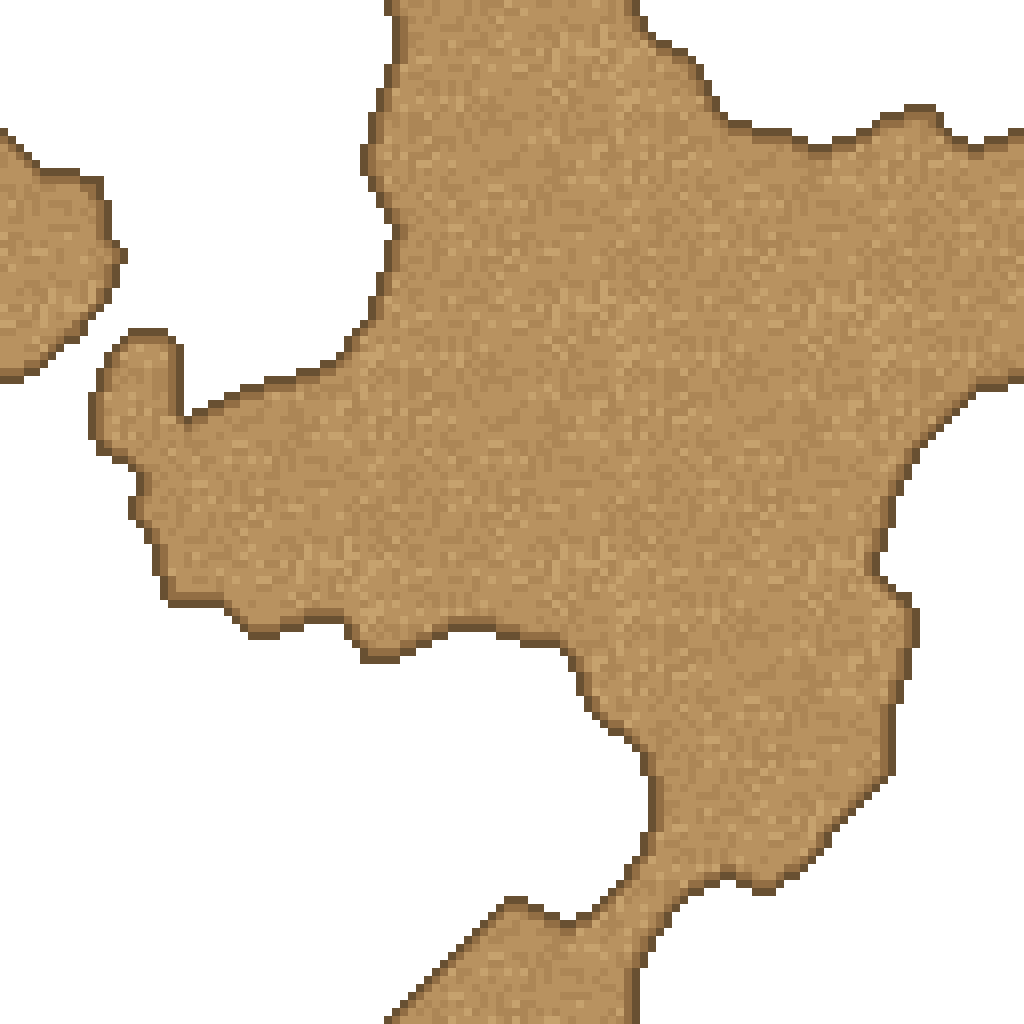
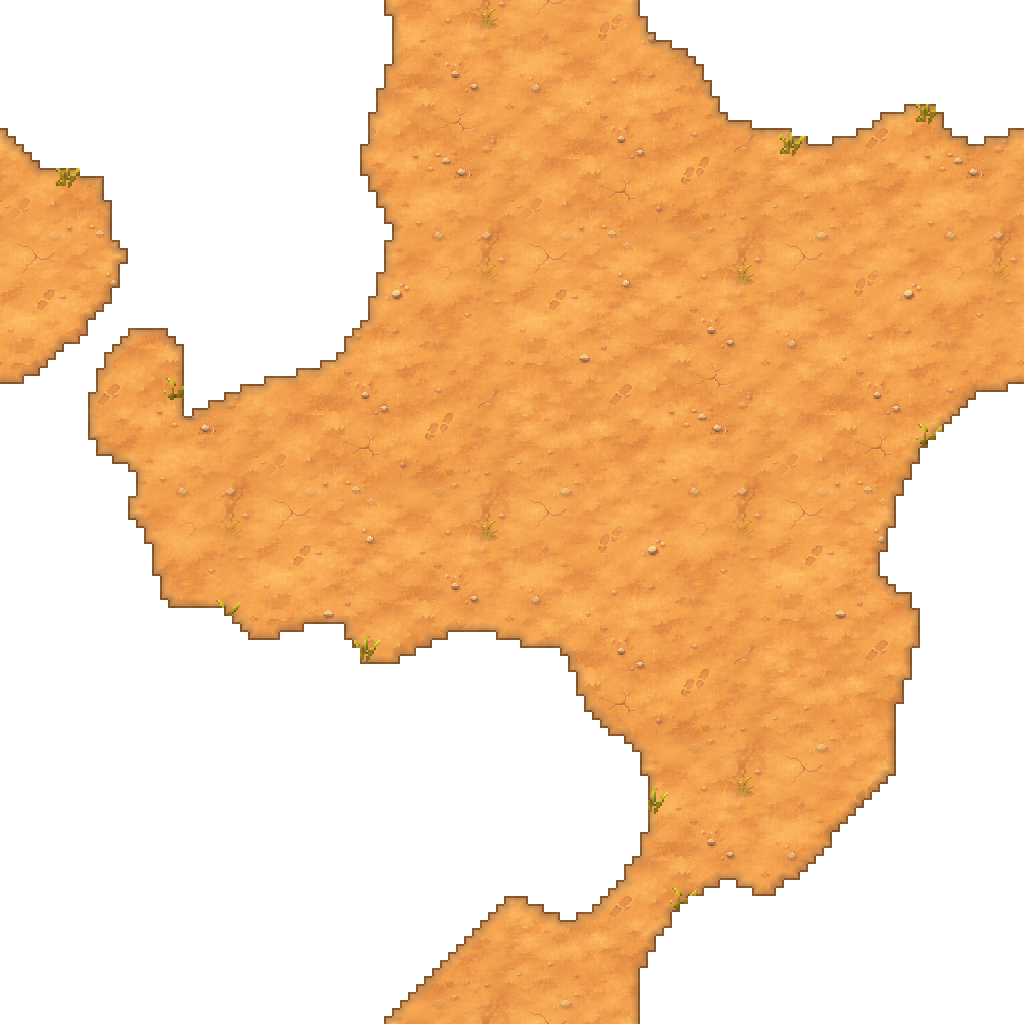
Glasswater ground: painted sand, dirt path, water and forest floor dual-grid sheets
Claude-Session: https://claude.ai/code/session_0152bnL1ocuryXt8KDsiAXGp

diff --git a/docs/DUAL-GRID.md b/docs/DUAL-GRID.md
@@ -34,4 +34,4 @@ lattice: the base sheet (`forest-floor.png`, whose fully filled cell repeats und
 and `water.png` (water). Decks, props, reeds, rocks and scenery are drawn over the tiles as before. In these areas
 the water's walking edge uses the same lattice rule as the water tiles (`atlas-area.js`), so the shoreline Eli stops at
 is the drawn one. Until every sheet has loaded the blended ground painter is used. The four ground sheets are
-stand-ins drawn by `scripts/draw-dual-grid.py` until the painted ones arrive.
+painted (sources in `art/sprites/terrain/dual-grid/*-source.png`); `scripts/draw-dual-grid.py` keeps the painted ones.
